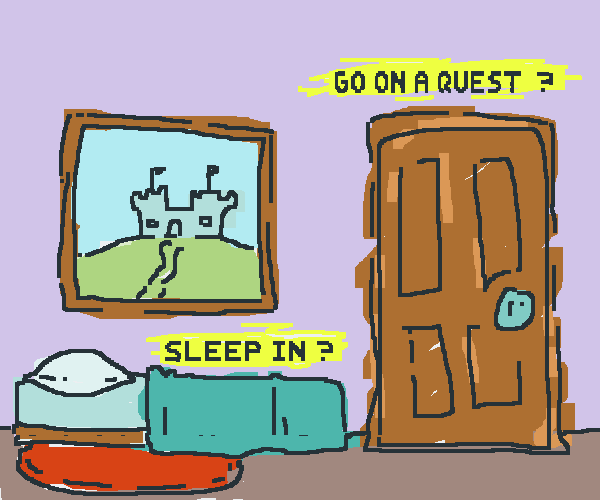
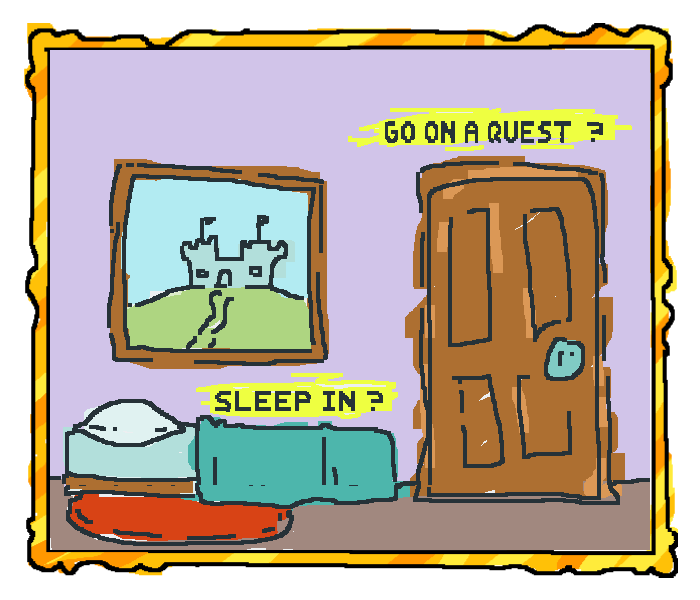
slight css changes

diff --git a/css/styles1.css b/css/styles1.css
@@ -7,11 +7,11 @@
     general layout of all pages
 */
 
-/* figure bow styles */
-figure {
-   
-}
-/* article */
+
+  
+
+
+
  html {
     background-image: url(../scenes/bg_bricks.png) ;
  }
@@ -20,6 +20,8 @@ figure {
     margin-left: auto;
     margin-right: auto;
     width: 950px;
+     box-shadow: rgba(0, 12, 44, 0.4) 15px 0px 35px,
+               rgba(0, 12, 44, 0.4) -15px 0px 35px;
  }
 
  header {    
@@ -36,14 +38,13 @@ figure {
  h1 {
    font-size: 3.5em;
    font-family: "grape";
-   color: rgb(223, 171, 0);
-     
+   color: rgb(223, 171, 0);     
  }
 h2 {
-   font-size: 1.5em;
+   font-size: 2em;
    font-family: "grape";
  }
- body img, h1, h2, a {
+ body img, h2, h1, a {
     text-align: center;
     display: block;
     margin-left: auto;

diff --git a/html/map.html b/html/map.html
@@ -28,10 +28,10 @@
     </header>
 
     <article>
-        <h1> Navigate to the castle now?</h1>
+        <h2> Navigate to the castle now?</h2>
 
         <img src="../scenes/map.png" alt="where go?" usemap="#scene_map">
-           <h1>*click the sign*</h1>     
+           <h2>*click the sign*</h2>     
 
             <map name="scene_map">
            <area shape="rect" coords="177, 375, 255, 467" href="../html/Castle.html" alt="to the castle" />

diff --git a/html/Chestroom.html b/html/Chestroom.html
@@ -25,7 +25,7 @@
         <img src="../scenes/title.png" alt="game header"/>
     </header>
     <article>
-        <h1>You made it to the chest room!</h1>
+        <h2>You made it to the chest room!</h2>
         <img src="../scenes/chests.png" alt="pick a chest" usemap="#scene_map">
         
           <map name="scene_map">

diff --git a/css/reset.css b/css/reset.css
@@ -9,7 +9,7 @@ footer, header, main, nav, section {
 
 address, article, aside, blockquote, body, cite, 
 div, dl, dt, dd, em, figcaption, figure, footer, 
-h1, h2, h3, h4, h5, h6, header, html, img, 
+h2, h1, h3, h4, h5, h6, header, html, img, 
 li, main, nav, ol, p, section, span, ul {
    margin: 0;
    padding: 0;

diff --git a/html/robbed.html b/html/robbed.html
@@ -25,7 +25,7 @@
         <img src="../scenes/title.png" alt="game header"/>
     </header>
     <article>
-        <h1>You robbed the king!</h1>
+        <h2>You robbed the king!</h2>
         <img src="../scenes/gold.png" alt="you got gold" usemap="#scene_map">
         
           <map name="scene_map">

diff --git a/html/mimic.html b/html/mimic.html
@@ -25,7 +25,7 @@
         <img src="../scenes/title.png" alt="game header"/>
     </header>
     <article>
-        <h1>Pet the mimic?</h1>
+        <h2>Pet the mimic?</h2>
         <img src="../scenes/mimic.png" alt="Pet the mimic?" usemap="#scene_map">
         
           <map name="scene_map">

diff --git a/html/fireroom.html b/html/fireroom.html
@@ -25,7 +25,7 @@
         <img src="../scenes/title.png" alt="game header"/>
     </header>
     <article>
-        <h1>Explore deeper?</h1>
+        <h2>Explore deeper?</h2>
         <img src="../scenes/fire room.png" alt="fire" usemap="#scene_map">
         
           <map name="scene_map">

diff --git a/html/Castle.html b/html/Castle.html
@@ -28,7 +28,7 @@
     </header>
 
     <article>
-        <h1>You made it to the castle!</h1>
+        <h2>You made it to the castle!</h2>
         <img src="../scenes/castle.png" alt="castle doors" usemap="#scene_map"/>
 
         <map name="scene_map">

diff --git a/html/sleep.html b/html/sleep.html
@@ -27,7 +27,7 @@
     </header>
 
     <article>
-        <h1>You:"Mi Mi Mi Mi Mi"</h1>
+        <h2>You:"Mi Mi Mi Mi Mi"</h2>
         <img src="../scenes/sleep.png" alt="mi mi mi mi mi" usemap="#scene_map"/>
         
 <map name="scene_map">

diff --git a/index.html b/index.html
@@ -33,7 +33,6 @@
             </p>
         <H2>-Controls-</H2>
             <p id="controls">click...</p>
-           
         <img src="./scenes/start.png" alt="start button" usemap="#scene_map"/>
 
 

diff --git a/html/cave.html b/html/cave.html
@@ -29,7 +29,7 @@
 
     <article>
 
-        <h1>Go pet the dog?</h1>
+        <h2>Go pet the dog?</h2>
 
         <img src="../scenes/cave.png" alt="cave" usemap="#scene_map" />
 
